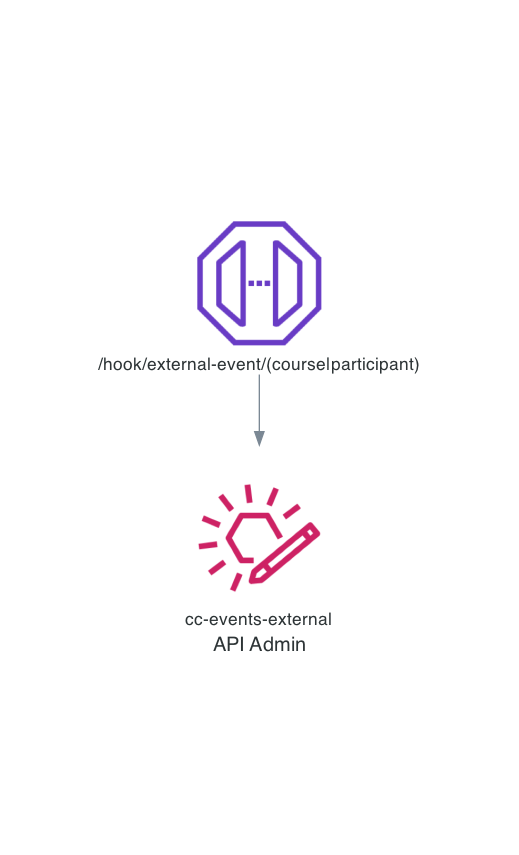
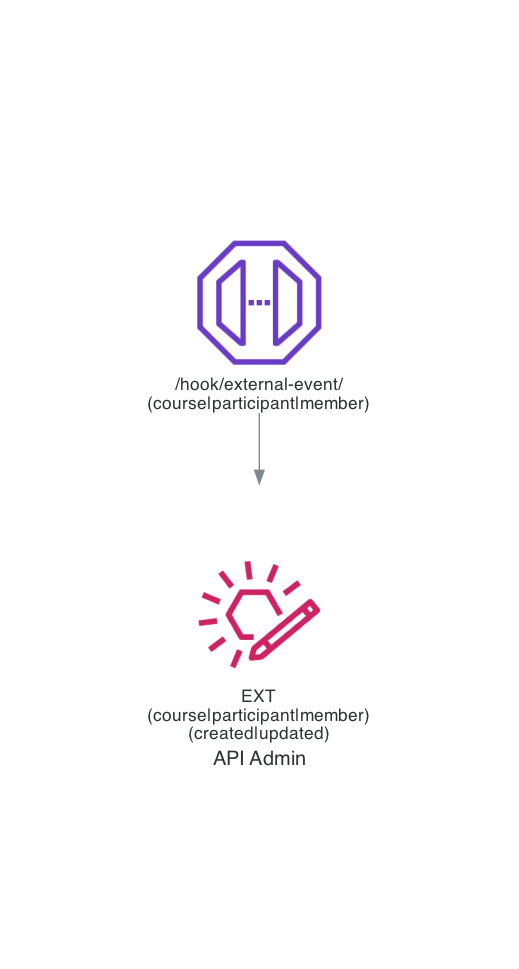
docs: :memo: Remaining diagrams

diff --git a/apps/education/courses/diagrams/participants-upsert.py b/apps/education/courses/diagrams/participants-upsert.py
@@ -6,24 +6,14 @@ graph_attr = {
     "overlap": "false"
 }
 
-with Diagram("Course updated", show=False, filename="course-updated", direction="TB", graph_attr=graph_attr):
-  ext_event_bus = EventbridgeCustomEventBusResource("EXT\ncourse\nupdated")
+with Diagram("Upsert participants", show=False, filename="participants-upsert", direction="TB", graph_attr=graph_attr):
   int_event_bus_course_created = EventbridgeCustomEventBusResource("INT\ncourse\ncreated")
-  int_event_bus_course_updated = EventbridgeCustomEventBusResource("INT\ncourse\nupdated")
   int_event_bus_participant_created = EventbridgeCustomEventBusResource("INT\nparticipant\ncreated")
   int_event_bus_participant_updated = EventbridgeCustomEventBusResource("INT\nparticipant\nupdated")
-  sqs_participant_update = SimpleQueueServiceSqs("participant-update")
   sqs_participant_upsert = SimpleQueueServiceSqs("participant-upsert")
-  lambda_course_upsert = LambdaFunction("course-upsert")
-  lambda_participant_update = LambdaFunction("participant-update")
   lambda_participant_upsert = LambdaFunction("participant-upsert")
-  lambda_participant_update_multi = LambdaFunction("participant-update-multi")
   lambda_participant_upsert_multi = LambdaFunction("participant-upsert-multi")
   sfn_participant_upsert = StepFunctions("participant-upsert")
-
-  ext_event_bus >> lambda_course_upsert
-  lambda_course_upsert >> int_event_bus_course_created
-  lambda_course_upsert >> int_event_bus_course_updated
 
   int_event_bus_course_created >> lambda_participant_upsert_multi
   lambda_participant_upsert_multi >> sqs_participant_upsert
@@ -31,9 +21,3 @@ with Diagram("Course updated", show=False, filename="course-updated", direction=
   lambda_participant_upsert >> sfn_participant_upsert
   sfn_participant_upsert >> int_event_bus_participant_created
   sfn_participant_upsert >> int_event_bus_participant_updated
-
-  int_event_bus_course_updated >> lambda_participant_update_multi
-  lambda_participant_update_multi >> sqs_participant_update
-  sqs_participant_update >> lambda_participant_update
-  lambda_participant_update >> int_event_bus_participant_updated
-

diff --git a/apps/education/courses/diagrams/participant-upsert.py b/apps/education/courses/diagrams/participant-upsert.py
@@ -1,12 +1,13 @@
 from diagrams import Cluster, Diagram
 from diagrams.aws.compute import LambdaFunction
 from diagrams.aws.integration import EventbridgeCustomEventBusResource
+from diagrams.aws.database import Dynamodb
 
 graph_attr = {
     "overlap": "false"
 }
 
-with Diagram("Participant created/updated", show=False, filename="participant-upserted", direction="TB", graph_attr=graph_attr):
+with Diagram("Upsert participant", show=False, filename="participant-upsert", direction="TB", graph_attr=graph_attr):
   ext_event_bus = EventbridgeCustomEventBusResource("EXT\nparticipant\ncreated")
 
   with Cluster("Upsert participant state machine"):
@@ -20,6 +21,8 @@ with Diagram("Participant created/updated", show=False, filename="participant-up
     lambda_participant_update = LambdaFunction("participant-update")
     lambda_member_find = LambdaFunction("member-find")
     lambda_member_create = LambdaFunction("member-create")
+    ddb_courses = Dynamodb("courses")
+    ddb_members = Dynamodb("members")
 
   ext_event_bus >> lambda_participant_find
   lambda_participant_find >> lambda_participant_update
@@ -30,7 +33,10 @@ with Diagram("Participant created/updated", show=False, filename="participant-up
   lambda_course_find >> lambda_member_find
   lambda_member_find >> lambda_member_create
   lambda_member_create >> int_event_bus_member_created
+  lambda_member_create >> ddb_members
   int_event_bus_member_created >> lambda_participant_create
+  lambda_participant_create >> ddb_courses
 
   lambda_member_find >> lambda_participant_create
   lambda_participant_create >> int_event_bus_participant_created
+  lambda_participant_update >> ddb_courses

diff --git a/apps/core/members/diagrams/member-sources-upsert.py b/apps/core/members/diagrams/member-sources-upsert.py
@@ -1,0 +1,35 @@
+from diagrams import Cluster, Diagram
+from diagrams.custom import Custom
+from diagrams.aws.compute import LambdaFunction
+from diagrams.aws.integration import EventbridgeCustomEventBusResource
+
+graph_attr = {
+    "overlap": "false"
+}
+
+with Diagram("Upsert member sources", show=False, filename="member-sources-upsert", direction="TB", graph_attr=graph_attr):
+  int_event_bus_member_created = EventbridgeCustomEventBusResource("INT\nmember\ncreated")
+  int_event_bus_member_updated = EventbridgeCustomEventBusResource("INT\nmember\nupdated")
+
+  with Cluster("Upsert members sources\nstate machine"):
+    lambda_member_source_upsert = LambdaFunction("member-source-upsert")
+    lambda_member_update = LambdaFunction("member-update")
+
+  # Community
+  api_community_img_path = "../../../../assets/logos/tribe.png"
+  api_community = Custom("Community API", api_community_img_path)
+
+  # Auth
+  api_auth_img_path = "../../../../assets/logos/auth0.png"
+  api_auth = Custom("Auth API", api_auth_img_path)
+
+  # Micro-courses
+  api_micro_courses_img_path = "../../../../assets/logos/edapp.png"
+  api_micro_courses = Custom("Micro-courses API", api_micro_courses_img_path)
+
+  int_event_bus_member_created >> lambda_member_source_upsert
+  int_event_bus_member_updated >> lambda_member_source_upsert
+  lambda_member_source_upsert >> api_community
+  lambda_member_source_upsert >> api_auth
+  lambda_member_source_upsert >> api_micro_courses
+  lambda_member_source_upsert >> lambda_member_update

diff --git a/apps/core/groups/diagrams/group-sources-upsert.py b/apps/core/groups/diagrams/group-sources-upsert.py
@@ -1,0 +1,30 @@
+from diagrams import Cluster, Diagram
+from diagrams.custom import Custom
+from diagrams.aws.compute import LambdaFunction
+from diagrams.aws.integration import EventbridgeCustomEventBusResource
+
+graph_attr = {
+    "overlap": "false"
+}
+
+with Diagram("Upsert group sources", show=False, filename="group-sources-upsert", direction="TB", graph_attr=graph_attr):
+  int_event_bus_group_created = EventbridgeCustomEventBusResource("INT\ngroup\ncreated")
+  int_event_bus_group_updated = EventbridgeCustomEventBusResource("INT\ngroup\nupdated")
+
+  with Cluster("Upsert groups sources\nstate machine"):
+    lambda_group_source_upsert = LambdaFunction("group-source-upsert")
+    lambda_group_update = LambdaFunction("group-update")
+
+  # Community
+  api_community_img_path = "../../../../assets/logos/tribe.png"
+  api_community = Custom("Community API", api_community_img_path)
+
+  # Micro-courses
+  api_micro_courses_img_path = "../../../../assets/logos/edapp.png"
+  api_micro_courses = Custom("Micro-courses API", api_micro_courses_img_path)
+
+  int_event_bus_group_created >> lambda_group_source_upsert
+  int_event_bus_group_updated >> lambda_group_source_upsert
+  lambda_group_source_upsert >> api_community
+  lambda_group_source_upsert >> api_micro_courses
+  lambda_group_source_upsert >> lambda_group_update

diff --git a/apps/core/groups/diagrams/group-member-sources-upsert.py b/apps/core/groups/diagrams/group-member-sources-upsert.py
@@ -1,0 +1,28 @@
+from diagrams import Cluster, Diagram
+from diagrams.custom import Custom
+from diagrams.aws.compute import LambdaFunction
+from diagrams.aws.integration import EventbridgeCustomEventBusResource
+
+graph_attr = {
+    "overlap": "false"
+}
+
+with Diagram("Upsert group member sources", show=False, filename="group-member-sources-upsert", direction="TB", graph_attr=graph_attr):
+  int_event_bus_group_member_created = EventbridgeCustomEventBusResource("INT\ngroup-member\ncreated")
+  int_event_bus_group_member_updated = EventbridgeCustomEventBusResource("INT\ngroup-member\nupdated")
+
+  with Cluster("Upsert group members sources\nstate machine"):
+    lambda_group_member_source_upsert = LambdaFunction("group-member-source-upsert")
+
+  # Community
+  api_community_img_path = "../../../../assets/logos/tribe.png"
+  api_community = Custom("Community API", api_community_img_path)
+
+  # Micro-courses
+  api_micro_courses_img_path = "../../../../assets/logos/edapp.png"
+  api_micro_courses = Custom("Micro-courses API", api_micro_courses_img_path)
+
+  int_event_bus_group_member_created >> lambda_group_member_source_upsert
+  int_event_bus_group_member_updated >> lambda_group_member_source_upsert
+  lambda_group_member_source_upsert >> api_community
+  lambda_group_member_source_upsert >> api_micro_courses

diff --git a/apps/core/groups/diagrams/course-group-member-upsert.py b/apps/core/groups/diagrams/course-group-member-upsert.py
@@ -1,0 +1,22 @@
+from diagrams import Diagram
+from diagrams.aws.compute import LambdaFunction
+from diagrams.aws.integration import EventbridgeCustomEventBusResource
+from diagrams.aws.database import Dynamodb
+
+graph_attr = {
+    "overlap": "false"
+}
+
+with Diagram("Create/update course group member", show=False, filename="course-group-member-upsert", direction="TB", graph_attr=graph_attr):
+  int_event_bus_participant_created = EventbridgeCustomEventBusResource("INT\nparticipant\ncreated")
+  int_event_bus_participant_updated = EventbridgeCustomEventBusResource("INT\nparticipant\nupdated")
+  int_event_bus_course_group_member_created = EventbridgeCustomEventBusResource("INT\ncourse-group-member\ncreated")
+  int_event_bus_course_group_member_updated = EventbridgeCustomEventBusResource("INT\ncourse-group-member\nupdated")
+  lambda_course_group_member_upsert = LambdaFunction("course-group-member-upsert")
+  ddb_groups = Dynamodb("groups")
+
+  int_event_bus_participant_created >> lambda_course_group_member_upsert
+  int_event_bus_participant_updated >> lambda_course_group_member_upsert
+  lambda_course_group_member_upsert >> int_event_bus_course_group_member_created
+  lambda_course_group_member_upsert >> int_event_bus_course_group_member_updated
+  lambda_course_group_member_upsert >> ddb_groups

diff --git a/apps/core/groups/diagrams/group-members-update.py b/apps/core/groups/diagrams/group-members-update.py
@@ -1,0 +1,25 @@
+from diagrams import Diagram
+from diagrams.aws.compute import LambdaFunction
+from diagrams.aws.integration import EventbridgeCustomEventBusResource, SimpleQueueServiceSqs
+from diagrams.aws.database import Dynamodb
+
+graph_attr = {
+    "overlap": "false"
+}
+
+with Diagram("Update group members", show=False, filename="group-members-update", direction="TB", graph_attr=graph_attr):
+  int_event_bus_group_updated = EventbridgeCustomEventBusResource("INT\ngroup\nupdated")
+  int_event_bus_member_updated = EventbridgeCustomEventBusResource("INT\nmember\nupdated")
+  int_event_bus_group_member_updated = EventbridgeCustomEventBusResource("INT\ngroup-member\nupdated")
+  sqs_group_member_update = SimpleQueueServiceSqs("group-member-update")
+  lambda_group_member_update = LambdaFunction("group-member-update")
+  lambda_group_member_update_multi = LambdaFunction("group-member-update-multi")
+  ddb_groups = Dynamodb("groups")
+
+  int_event_bus_group_updated >> lambda_group_member_update_multi
+  int_event_bus_member_updated >> lambda_group_member_update_multi
+  lambda_group_member_update_multi >> sqs_group_member_update
+  sqs_group_member_update >> lambda_group_member_update
+  lambda_group_member_update >> ddb_groups
+  lambda_group_member_update >> int_event_bus_group_member_updated
+

diff --git a/apps/education/courses/diagrams/participants-update.py b/apps/education/courses/diagrams/participants-update.py
@@ -1,0 +1,25 @@
+from diagrams import Diagram
+from diagrams.aws.compute import LambdaFunction
+from diagrams.aws.integration import EventbridgeCustomEventBusResource, SimpleQueueServiceSqs
+from diagrams.aws.database import Dynamodb
+
+graph_attr = {
+    "overlap": "false"
+}
+
+with Diagram("Update participants", show=False, filename="participants-update", direction="TB", graph_attr=graph_attr):
+  int_event_bus_course_updated = EventbridgeCustomEventBusResource("INT\ncourse\nupdated")
+  int_event_bus_member_updated = EventbridgeCustomEventBusResource("INT\nmember\nupdated")
+  int_event_bus_participant_updated = EventbridgeCustomEventBusResource("INT\nparticipant\nupdated")
+  sqs_participant_update = SimpleQueueServiceSqs("participant-update")
+  lambda_participant_update = LambdaFunction("participant-update")
+  lambda_participant_update_multi = LambdaFunction("participant-update-multi")
+  ddb_courses = Dynamodb("courses")
+
+  int_event_bus_course_updated >> lambda_participant_update_multi
+  int_event_bus_member_updated >> lambda_participant_update_multi
+  lambda_participant_update_multi >> sqs_participant_update
+  sqs_participant_update >> lambda_participant_update
+  lambda_participant_update >> ddb_courses
+  lambda_participant_update >> int_event_bus_participant_updated
+

diff --git a/apps/core/members/diagrams/member-create.py b/apps/core/members/diagrams/member-create.py
@@ -1,0 +1,26 @@
+from diagrams import Diagram
+from diagrams.aws.compute import LambdaFunction
+from diagrams.aws.integration import EventbridgeCustomEventBusResource, StepFunctions
+from diagrams.aws.database import Dynamodb
+
+graph_attr = {
+    "overlap": "false"
+}
+
+with Diagram("Create member", show=False, filename="member-create", direction="TB", graph_attr=graph_attr):
+  ext_event_bus = EventbridgeCustomEventBusResource("EXT\nmember\ncreated")
+  int_event_bus_member_created = EventbridgeCustomEventBusResource("INT\nmember\ncreated")
+  int_event_bus_member_updated = EventbridgeCustomEventBusResource("INT\nmember\nupdated")
+  lambda_member_create = LambdaFunction("member-create")
+  lambda_member_upsert = LambdaFunction("member-upsert\n(TBD)")
+  sfn_participant_upsert = StepFunctions("participant-upsert")
+  ddb_members = Dynamodb("members")
+
+  sfn_participant_upsert >> lambda_member_create
+  lambda_member_create >> int_event_bus_member_created
+  lambda_member_create >> ddb_members
+
+  ext_event_bus >> lambda_member_upsert
+  lambda_member_upsert >> int_event_bus_member_created
+  lambda_member_upsert >> int_event_bus_member_updated
+  lambda_member_upsert >> ddb_members

diff --git a/apps/core/groups/diagrams/course-group-upsert.py b/apps/core/groups/diagrams/course-group-upsert.py
@@ -1,0 +1,22 @@
+from diagrams import Diagram
+from diagrams.aws.compute import LambdaFunction
+from diagrams.aws.integration import EventbridgeCustomEventBusResource
+from diagrams.aws.database import Dynamodb
+
+graph_attr = {
+    "overlap": "false"
+}
+
+with Diagram("Create/update course group", show=False, filename="course-group-upsert", direction="TB", graph_attr=graph_attr):
+  int_event_bus_course_created = EventbridgeCustomEventBusResource("INT\ncourse\ncreated")
+  int_event_bus_course_updated = EventbridgeCustomEventBusResource("INT\ncourse\nupdated")
+  int_event_bus_course_group_created = EventbridgeCustomEventBusResource("INT\ncourse-group\ncreated")
+  int_event_bus_course_group_updated = EventbridgeCustomEventBusResource("INT\ncourse-group\nupdated")
+  lambda_course_group_upsert = LambdaFunction("course-group-upsert")
+  ddb_groups = Dynamodb("groups")
+
+  int_event_bus_course_created >> lambda_course_group_upsert
+  int_event_bus_course_updated >> lambda_course_group_upsert
+  lambda_course_group_upsert >> int_event_bus_course_group_created
+  lambda_course_group_upsert >> int_event_bus_course_group_updated
+  lambda_course_group_upsert >> ddb_groups

diff --git a/apps/core/members/diagrams/member-update.py b/apps/core/members/diagrams/member-update.py
@@ -1,0 +1,21 @@
+from diagrams import Diagram
+from diagrams.aws.compute import LambdaFunction
+from diagrams.aws.integration import EventbridgeCustomEventBusResource
+from diagrams.aws.database import Dynamodb
+
+graph_attr = {
+    "overlap": "false"
+}
+
+with Diagram("Update member", show=False, filename="member-update", direction="TB", graph_attr=graph_attr):
+  ext_event_bus = EventbridgeCustomEventBusResource("EXT\nmember\nupdated")
+  int_event_bus_member_created = EventbridgeCustomEventBusResource("INT\nmember\ncreated")
+  int_event_bus_member_updated = EventbridgeCustomEventBusResource("INT\nmember\nupdated")
+  lambda_member_update = LambdaFunction("member-update")
+  ddb_members = Dynamodb("members")
+
+  ext_event_bus >> lambda_member_update
+  lambda_member_update >> int_event_bus_member_created
+  lambda_member_update >> int_event_bus_member_updated
+  lambda_member_update >> ddb_members
+

diff --git a/apps/education/courses/diagrams/course-update.py b/apps/education/courses/diagrams/course-update.py
@@ -1,0 +1,20 @@
+from diagrams import Diagram
+from diagrams.aws.compute import LambdaFunction
+from diagrams.aws.integration import EventbridgeCustomEventBusResource
+from diagrams.aws.database import Dynamodb
+
+graph_attr = {
+    "overlap": "false"
+}
+
+with Diagram("Update course", show=False, filename="course-update", direction="TB", graph_attr=graph_attr):
+  ext_event_bus = EventbridgeCustomEventBusResource("EXT\ncourse\nupdated")
+  int_event_bus_course_created = EventbridgeCustomEventBusResource("INT\ncourse\ncreated")
+  int_event_bus_course_updated = EventbridgeCustomEventBusResource("INT\ncourse\nupdated")
+  lambda_course_upsert = LambdaFunction("course-upsert")
+  ddb_courses = Dynamodb("courses")
+
+  ext_event_bus >> lambda_course_upsert
+  lambda_course_upsert >> int_event_bus_course_created
+  lambda_course_upsert >> int_event_bus_course_updated
+  lambda_course_upsert >> ddb_courses
